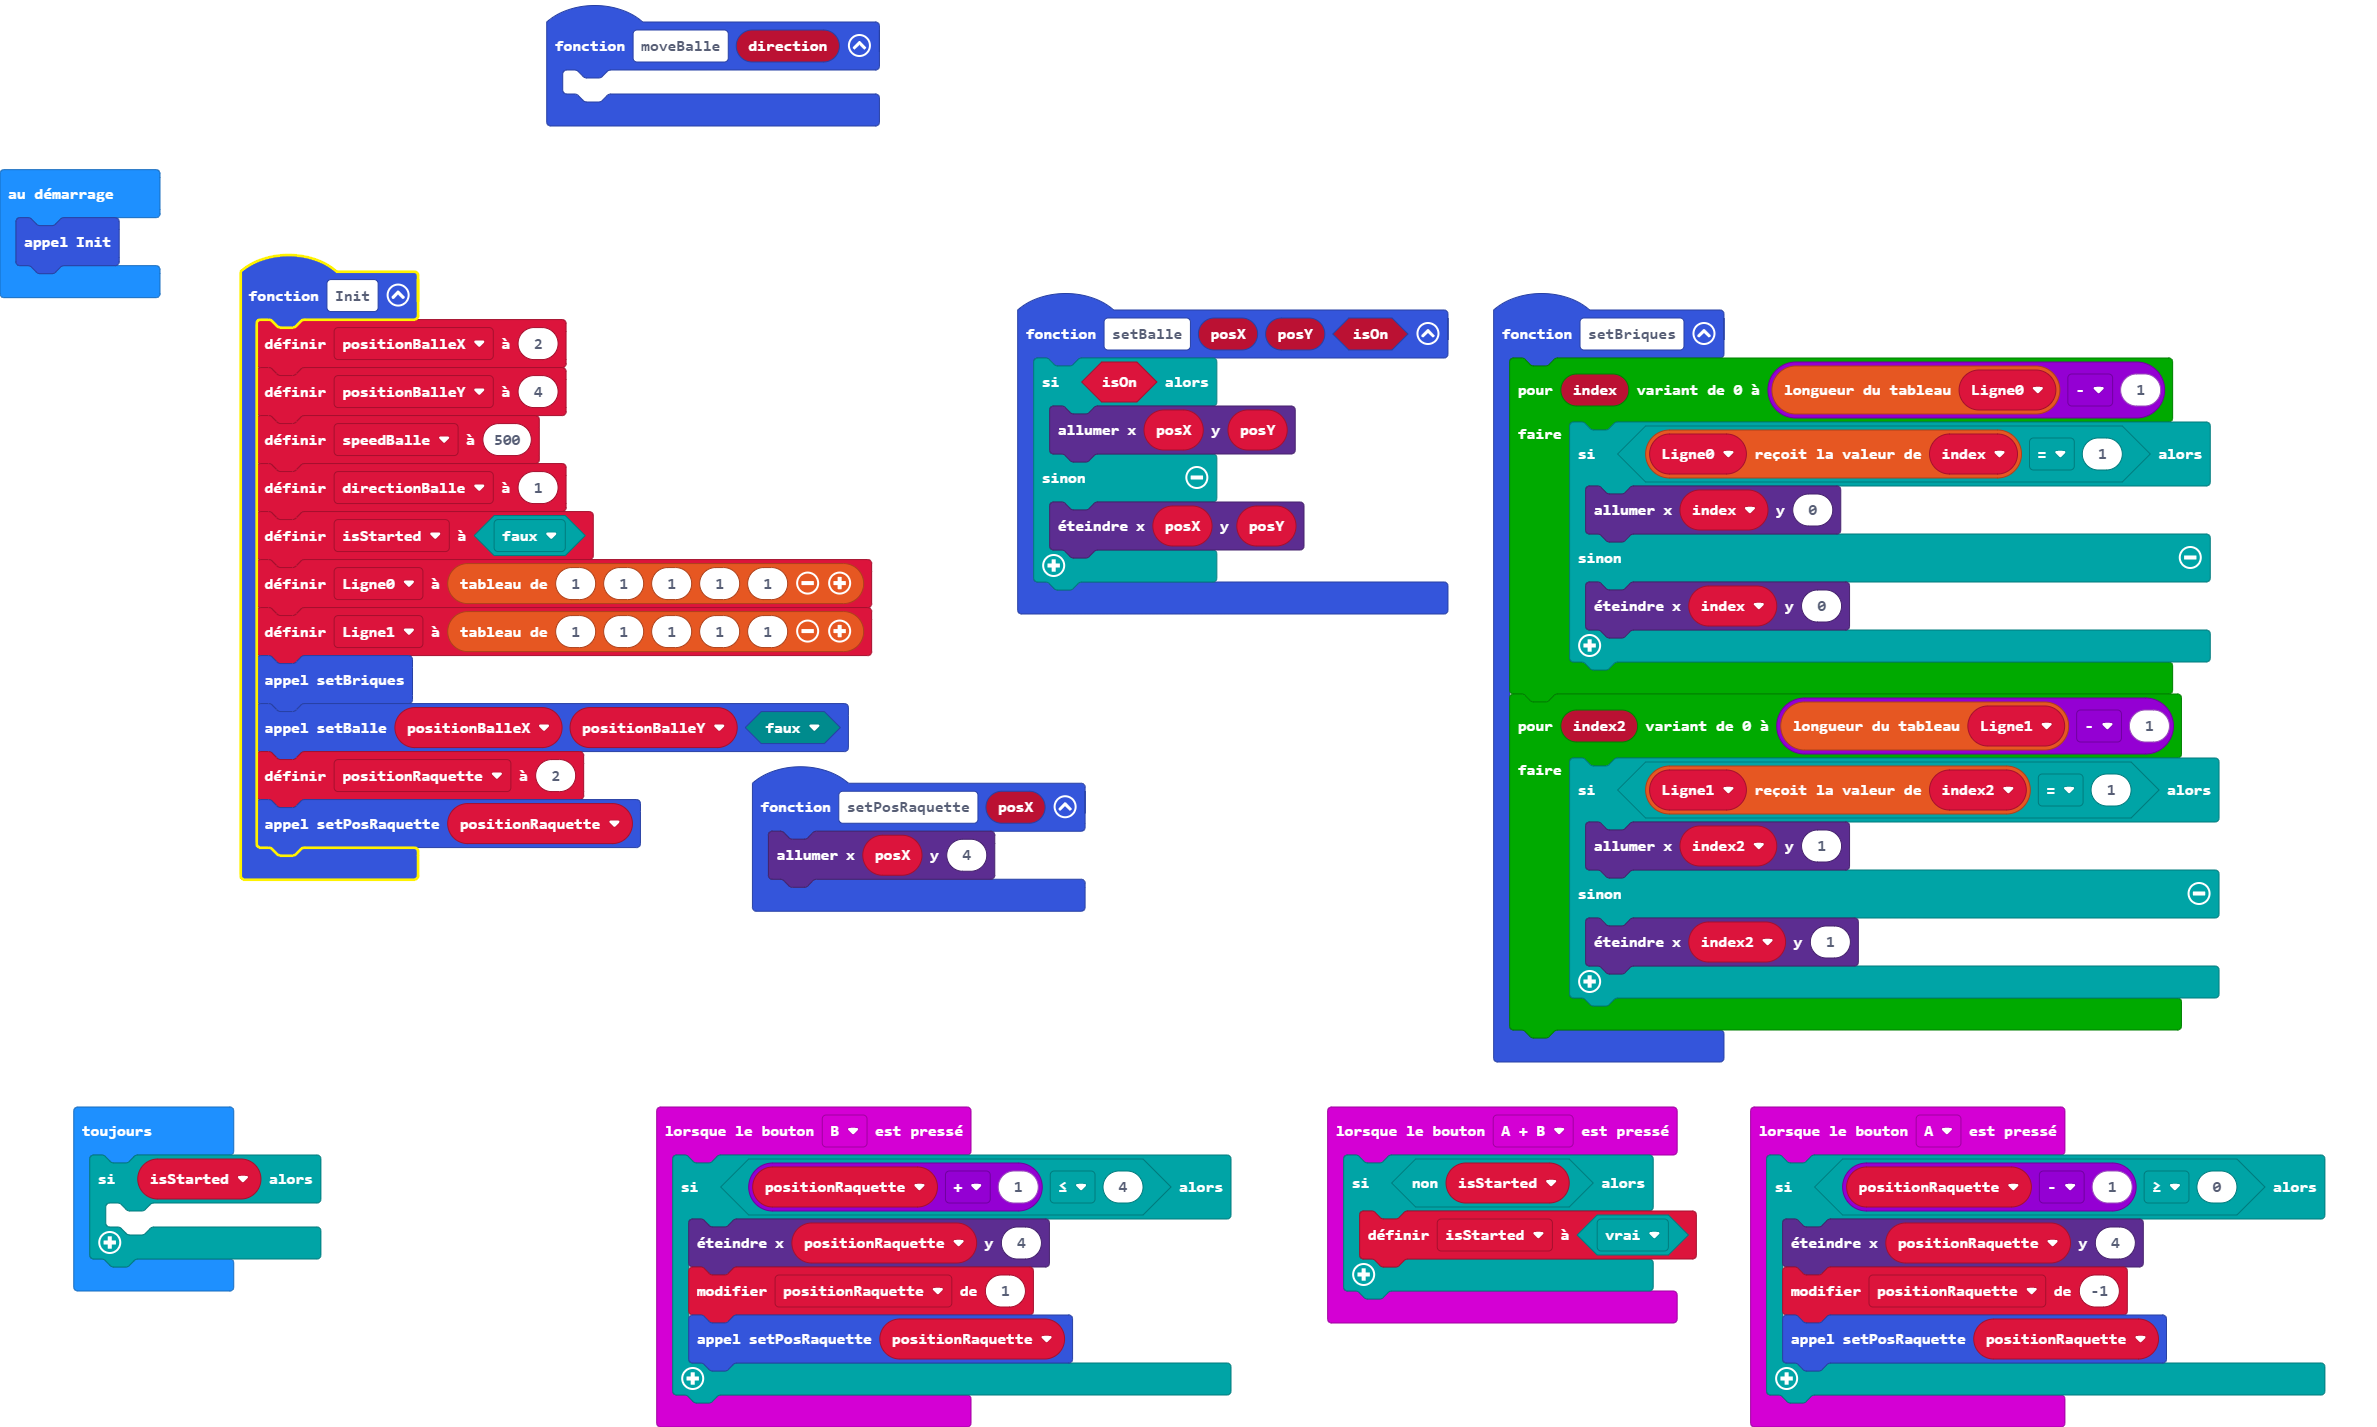
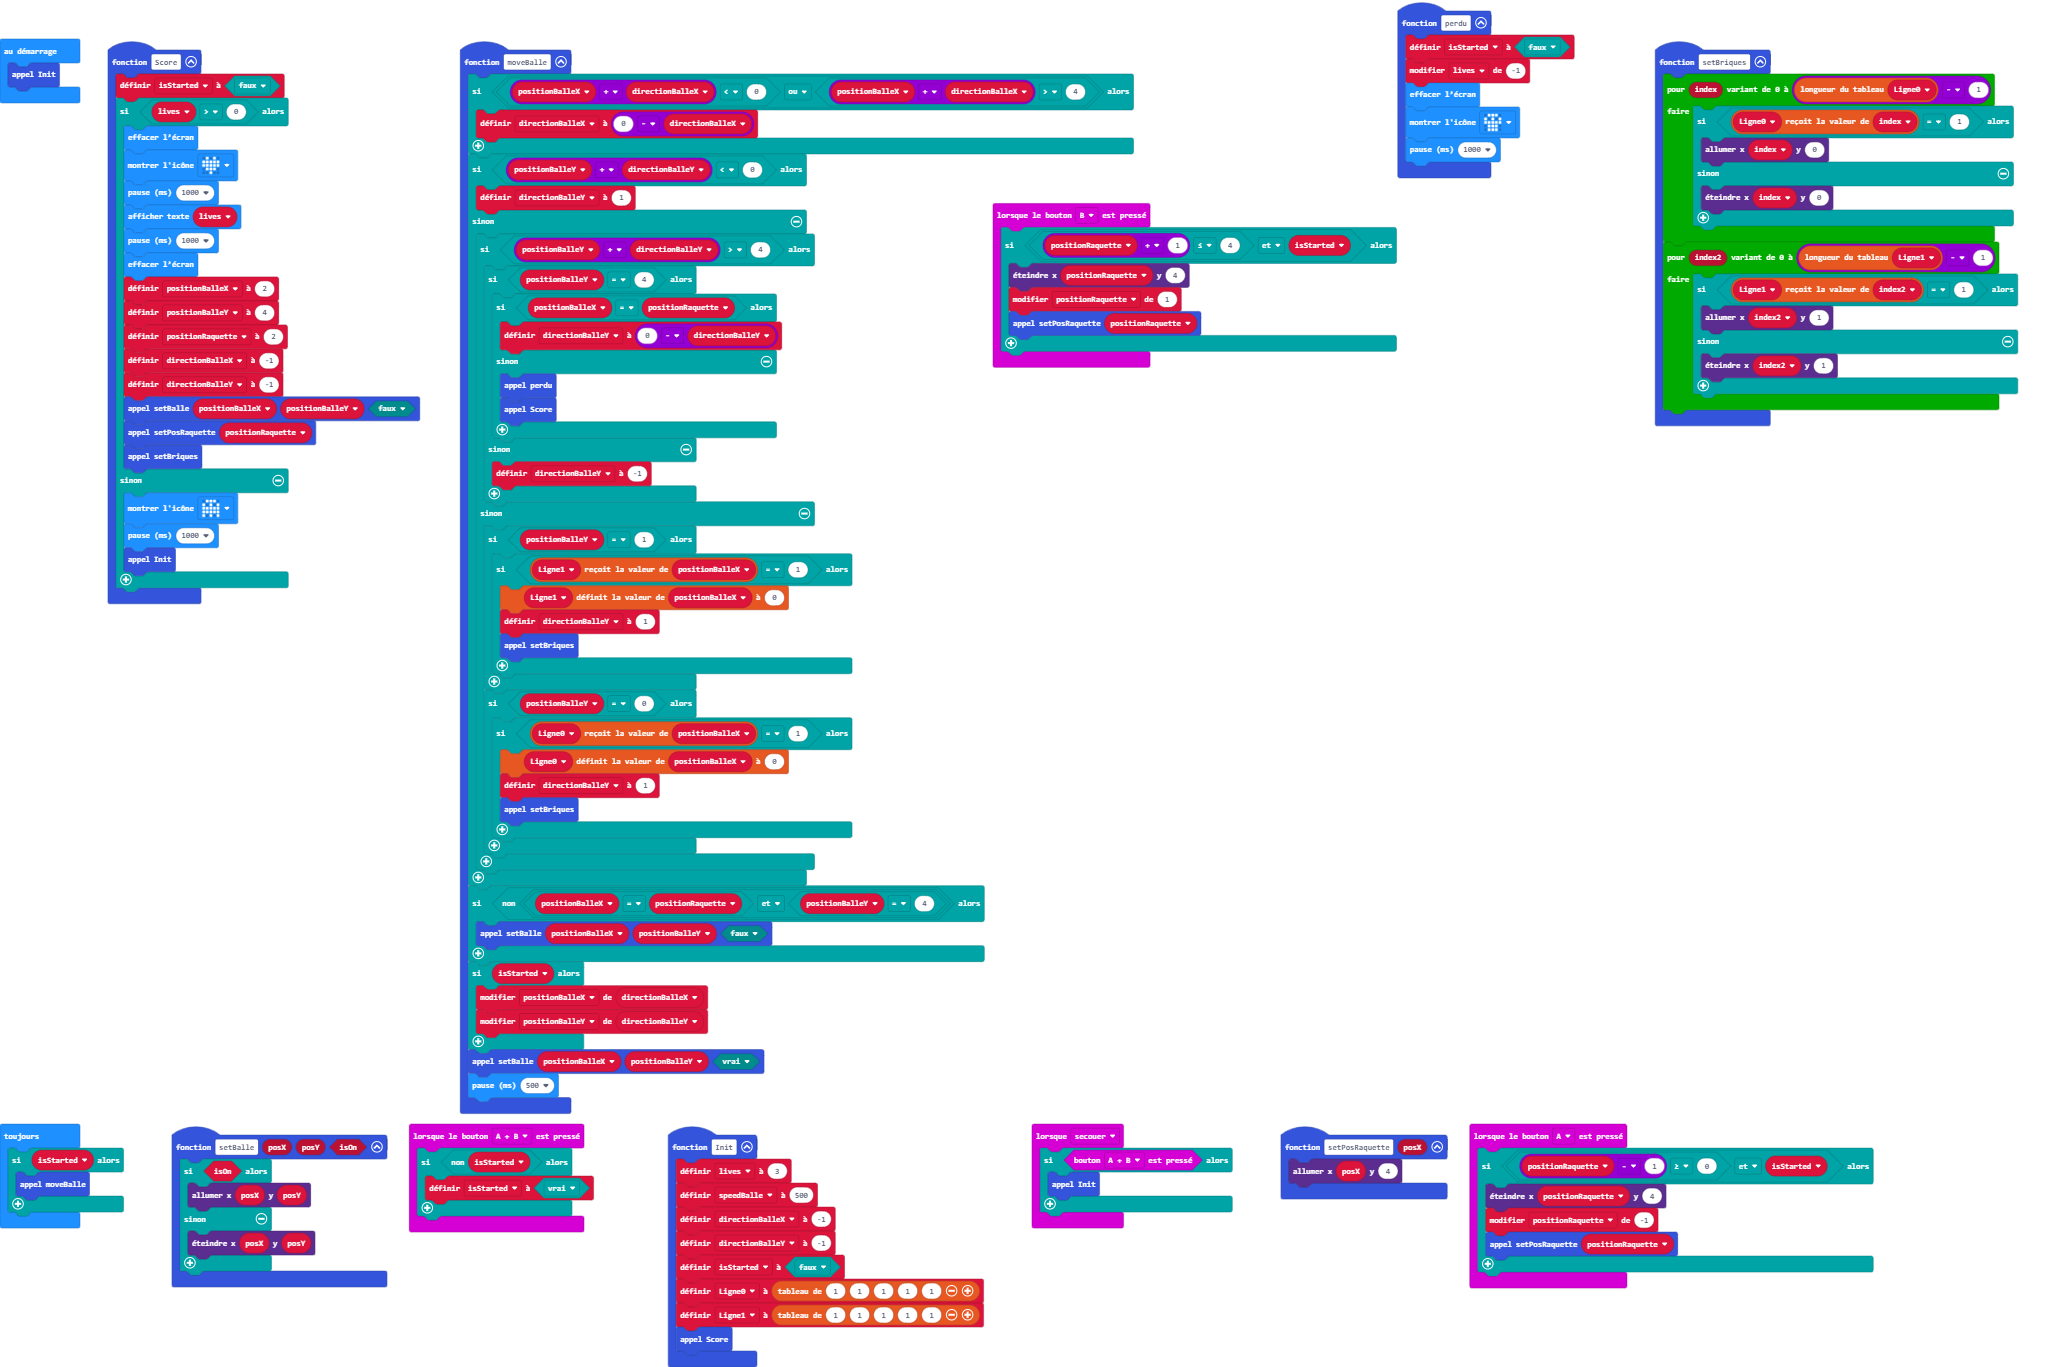
En cours : Gestion collision bords et briques

diff --git a/main.ts b/main.ts
@@ -1,8 +1,73 @@
-function moveBalle (direction: number) {
-	
+function Score () {
+    isStarted = false
+    if (lives > 0) {
+        basic.clearScreen()
+        basic.showIcon(IconNames.Heart)
+        basic.pause(1000)
+        basic.showString("" + (lives))
+        basic.pause(1000)
+        basic.clearScreen()
+        positionBalleX = 2
+        positionBalleY = 4
+        positionRaquette = 2
+        directionBalleX = -1
+        directionBalleY = -1
+        setBalle(positionBalleX, positionBalleY, false)
+        setPosRaquette(positionRaquette)
+        setBriques()
+    } else {
+        basic.showIcon(IconNames.Ghost)
+        basic.pause(1000)
+        Init()
+    }
+}
+function moveBalle () {
+    if (positionBalleX + directionBalleX < 0 || positionBalleX + directionBalleX > 4) {
+        directionBalleX = 0 - directionBalleX
+    }
+    if (positionBalleY + directionBalleY < 0) {
+        directionBalleY = 1
+    } else {
+        if (positionBalleY + directionBalleY > 4) {
+            if (positionBalleY == 4) {
+                if (positionBalleX == positionRaquette) {
+                    directionBalleY = 0 - directionBalleY
+                } else {
+                    perdu()
+                    Score()
+                }
+            } else {
+                directionBalleY = -1
+            }
+        } else {
+            if (positionBalleY == 1) {
+                if (Ligne1[positionBalleX] == 1) {
+                    Ligne1[positionBalleX] = 0
+                    directionBalleY = 1
+                    setBriques()
+                }
+            }
+            if (positionBalleY == 0) {
+                if (Ligne0[positionBalleX] == 1) {
+                    Ligne0[positionBalleX] = 0
+                    directionBalleY = 1
+                    setBriques()
+                }
+            }
+        }
+    }
+    if (!(positionBalleX == positionRaquette && positionBalleY == 4)) {
+        setBalle(positionBalleX, positionBalleY, false)
+    }
+    if (isStarted) {
+        positionBalleX += directionBalleX
+        positionBalleY += directionBalleY
+    }
+    setBalle(positionBalleX, positionBalleY, true)
+    basic.pause(500)
 }
 input.onButtonPressed(Button.A, function () {
-    if (positionRaquette - 1 >= 0) {
+    if (positionRaquette - 1 >= 0 && isStarted) {
         led.unplot(positionRaquette, 4)
         positionRaquette += -1
         setPosRaquette(positionRaquette)
@@ -17,24 +82,33 @@ input.onButtonPressed(Button.AB, function () {
     }
 })
 input.onButtonPressed(Button.B, function () {
-    if (positionRaquette + 1 <= 4) {
+    if (positionRaquette + 1 <= 4 && isStarted) {
         led.unplot(positionRaquette, 4)
         positionRaquette += 1
         setPosRaquette(positionRaquette)
     }
 })
+input.onGesture(Gesture.Shake, function () {
+    if (input.buttonIsPressed(Button.AB)) {
+        Init()
+    }
+})
+function perdu () {
+    isStarted = false
+    lives += -1
+    basic.clearScreen()
+    basic.showIcon(IconNames.Skull)
+    basic.pause(1000)
+}
 function Init () {
-    positionBalleX = 2
-    positionBalleY = 4
+    lives = 3
     speedBalle = 500
-    directionBalle = 1
+    directionBalleX = -1
+    directionBalleY = -1
     isStarted = false
     Ligne0 = [1, 1, 1, 1, 1]
     Ligne1 = [1, 1, 1, 1, 1]
-    setBriques()
-    setBalle(positionBalleX, positionBalleY, false)
-    positionRaquette = 2
-    setPosRaquette(positionRaquette)
+    Score()
 }
 function setBalle (posX: number, posY: number, isOn: boolean) {
     if (isOn) {
@@ -59,17 +133,19 @@ function setBriques () {
         }
     }
 }
-let Ligne1: number[] = []
-let Ligne0: number[] = []
-let directionBalle = 0
 let speedBalle = 0
+let Ligne0: number[] = []
+let Ligne1: number[] = []
+let directionBalleY = 0
+let directionBalleX = 0
+let positionRaquette = 0
 let positionBalleY = 0
 let positionBalleX = 0
+let lives = 0
 let isStarted = false
-let positionRaquette = 0
 Init()
 basic.forever(function () {
     if (isStarted) {
-    	
+        moveBalle()
     }
 })
